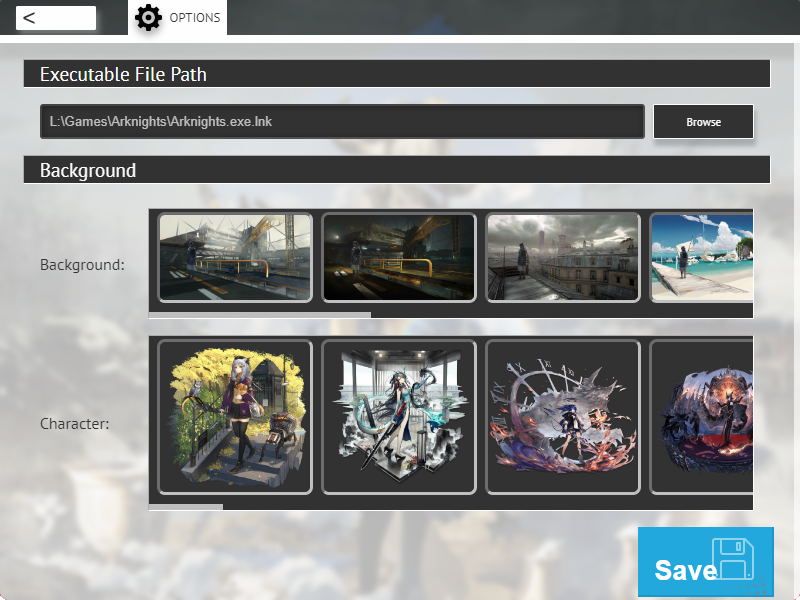
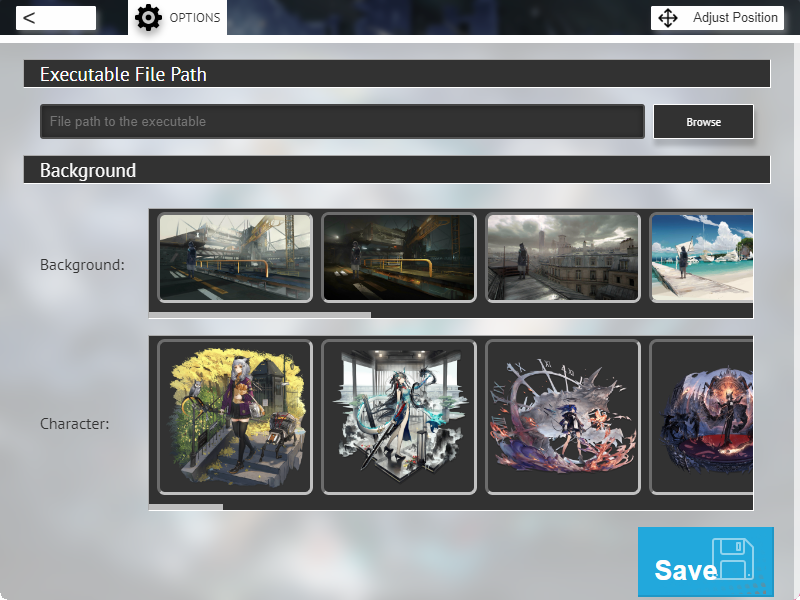
Update README with new features and images

diff --git a/README.md b/README.md
@@ -1,7 +1,5 @@
 # Arknights Launcher
 
-![Arknights logo](icon.png)
-
 ## Tauri application for launching Arknights on PC.  
 
 ![Picture of the main view](images/MainView.png)
@@ -9,9 +7,10 @@
 ## Features
 * Rich presence on Discord
 * Configurable launch file
-* Multiple choices of background
-
+* Create your own backgrounds by selecting a character and a background
 ![Picture of the options](images/OptionsView.png)
+* Position the character art  
+![Picture of the positioning UI](images/Positioning.png)
 
 <b>Icons from [icons8](https://icons8.com/)</b>
 
